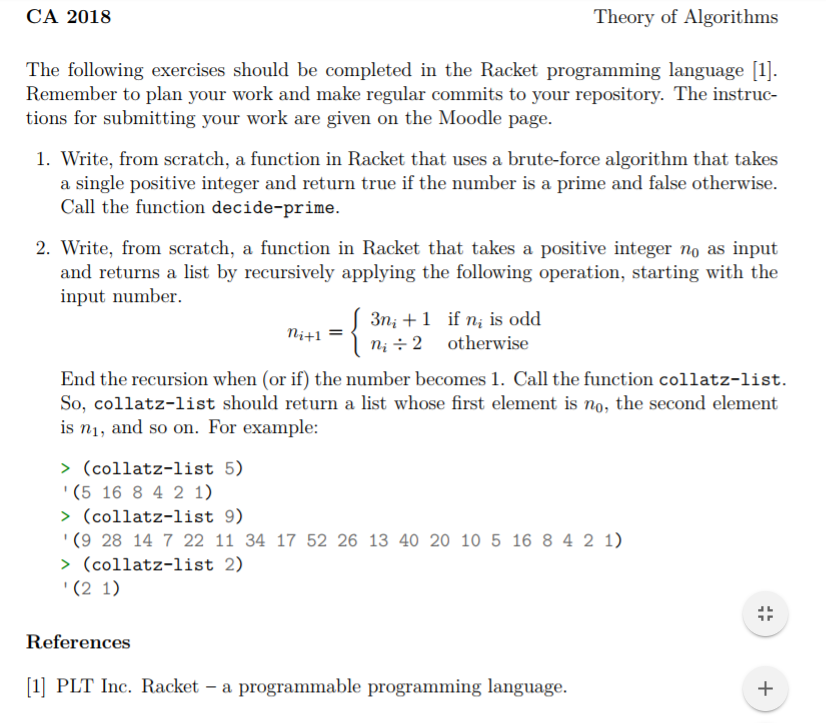
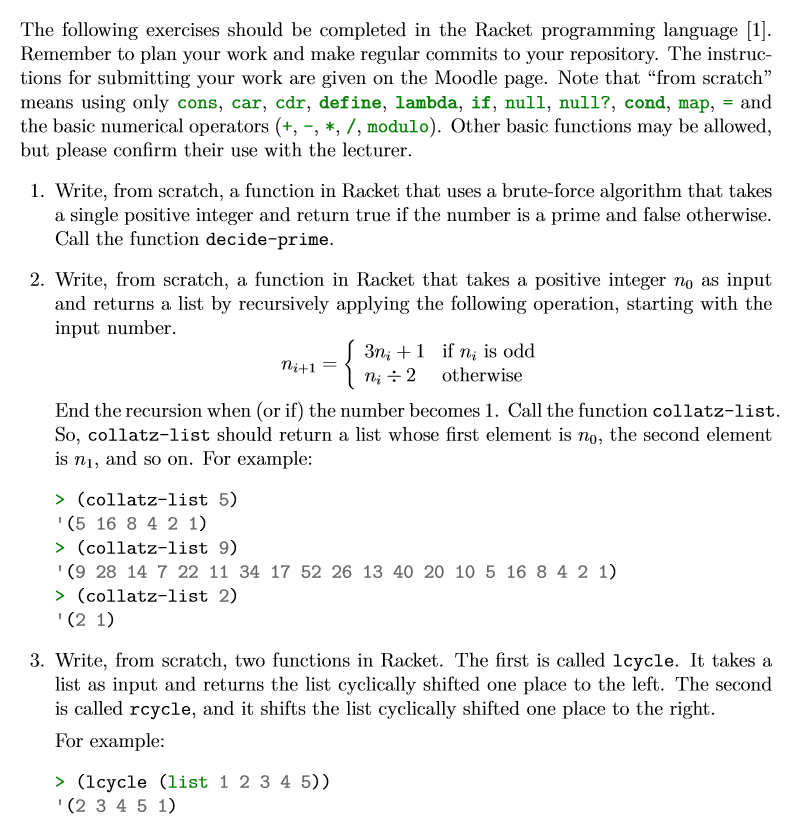
update to main readME

diff --git a/README.md b/README.md
@@ -13,7 +13,7 @@ Racket was originally developed as part of the PLT ("Programming Language Team")
 
 ## How to install DrRacket and use my solutions
 
-<p align="center"><img src="Images/Racket-logo.svg" width="200" length="200"></p>
+<p align="center"><img src="Images/racket-logo.svg" width="200" length="200"></p>
 
 DrRacket is a graphical environment for developing programs using the Racket programming languages.
 
@@ -28,6 +28,8 @@ DrRacket is a graphical environment for developing programs using the Racket pro
 ## Here is our List of Tasks from out Lecturer Ian McLoughlin
 
 <p><img src="Images/Tasks.PNG" width="500" length="300"></p>
+<p><img src="Images/Tasks2.PNG" width="500" length="300"></p>
+<p><img src="Images/Task3.PNG" width="500" length="300"></p>
 
 ## References
 
